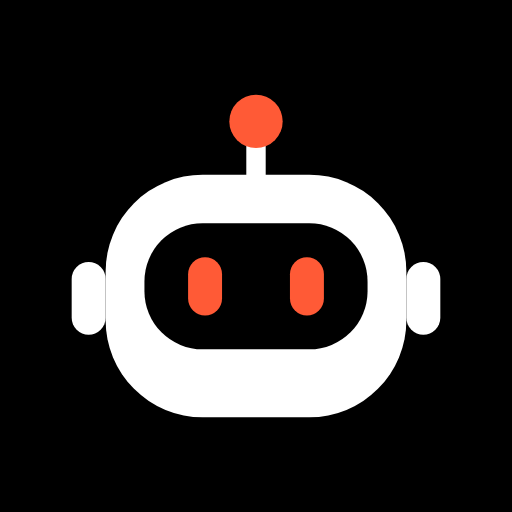
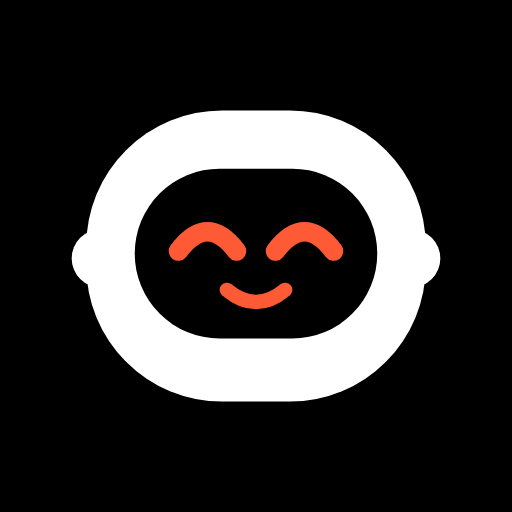
Make Buddy friendlier: no antenna, smiling eyes
Rounder head with round ears, a visor with smiling orange eyes and a
smile. Winks with one open eye on a pick and grins on a match. Updated
icons, splash and site mark.

Claude-Session: https://claude.ai/code/session_01NYVGF7UNYNvKVPr8WVfc16

Changed region(s): [[0.125, 0.1875, 0.875, 0.6875], [0.2188, 0.6875, 0.7812, 0.8438], [0.2812, 0.5625, 0.7188, 0.6875]]

diff --git a/app/lib/widgets/dots.dart b/app/lib/widgets/dots.dart
@@ -105,10 +105,10 @@ DotField portraitField(String seed, {double headY = 0.42, double scale = 1}) {
 enum BuddyMood { normal, wink, happy }
 
 /// Width / height of Buddy.
-const markAspect = 152 / 133;
+const markAspect = 152 / 120;
 
-/// Buddy, the Sidekick mascot: a round robot head with a visor, orange eyes and an antenna.
-/// [size] is its height. It winks when it has spotted someone and smiles on a match.
+/// Buddy, the Sidekick mascot: a round robot head with a visor and smiling orange eyes.
+/// [size] is its height. It winks when it has spotted someone and beams on a match.
 class SidekickMark extends StatelessWidget {
   const SidekickMark({
     super.key,
@@ -139,8 +139,8 @@ class BuddyPainter extends CustomPainter {
   final Color color, visor, eyes;
   final BuddyMood mood;
 
-  // Drawn on a 200 x 200 artboard; Buddy spans x 24..176, y 27..160.
-  static const art = Rect.fromLTRB(24, 27, 176, 160);
+  // Drawn on a 200 x 200 artboard; Buddy spans x 24..176, y 52..172.
+  static const art = Rect.fromLTRB(24, 52, 176, 172);
 
   @override
   void paint(Canvas canvas, Size s) {
@@ -148,42 +148,45 @@ class BuddyPainter extends CustomPainter {
     canvas.scale(s.width / art.width, s.height / art.height);
     canvas.translate(-art.left, -art.top);
     final body = Paint()..color = color;
-    RRect r(double x, double y, double w, double h, double rad) =>
-        RRect.fromRectAndRadius(Rect.fromLTWH(x, y, w, h), Radius.circular(rad));
-    // Antenna.
-    canvas.drawLine(
-      const Offset(100, 44),
-      const Offset(100, 62),
-      Paint()
-        ..color = color
-        ..strokeWidth = 8
-        ..strokeCap = StrokeCap.round,
-    );
-    canvas.drawCircle(const Offset(100, 38), 11, Paint()..color = eyes);
     // Ears, head, visor.
-    canvas.drawRRect(r(24, 96, 14, 30, 7), body);
-    canvas.drawRRect(r(162, 96, 14, 30, 7), body);
-    canvas.drawRRect(r(38, 60, 124, 100, 40), body);
-    canvas.drawRRect(r(54, 80, 92, 52, 24), Paint()..color = visor);
-    // Eyes.
-    final eye = Paint()..color = eyes;
-    final arc = Paint()
+    canvas.drawCircle(const Offset(36, 113), 12, body);
+    canvas.drawCircle(const Offset(164, 113), 12, body);
+    canvas.drawRRect(RRect.fromRectAndRadius(const Rect.fromLTWH(30, 52, 140, 120), const Radius.circular(56)), body);
+    canvas.drawRRect(
+      RRect.fromRectAndRadius(const Rect.fromLTWH(50, 76, 100, 70), const Radius.circular(35)),
+      Paint()..color = visor,
+    );
+    // Smiling eyes and mouth.
+    Paint stroke(double w) => Paint()
       ..color = eyes
       ..style = PaintingStyle.stroke
-      ..strokeWidth = 7
+      ..strokeWidth = w
       ..strokeCap = StrokeCap.round;
-    Path smile(double x) => Path()
-      ..moveTo(x - 9, 110)
-      ..quadraticBezierTo(x, 98, x + 9, 110);
-    if (mood == BuddyMood.happy) {
-      canvas.drawPath(smile(79), arc);
+    Path arc(double x) => Path()
+      ..moveTo(x - 12, 110)
+      ..quadraticBezierTo(x, 94, x + 12, 110);
+    if (mood == BuddyMood.wink) {
+      canvas.drawCircle(const Offset(80, 104), 9, Paint()..color = eyes);
     } else {
-      canvas.drawRRect(r(72, 94, 14, 24, 7), eye);
+      canvas.drawPath(arc(80), stroke(8));
     }
-    if (mood == BuddyMood.normal) {
-      canvas.drawRRect(r(114, 94, 14, 24, 7), eye);
+    canvas.drawPath(arc(120), stroke(8));
+    if (mood == BuddyMood.happy) {
+      // A wide open grin.
+      canvas.drawPath(
+        Path()
+          ..moveTo(86, 124)
+          ..quadraticBezierTo(100, 144, 114, 124)
+          ..close(),
+        Paint()..color = eyes,
+      );
     } else {
-      canvas.drawPath(smile(121), arc);
+      canvas.drawPath(
+        Path()
+          ..moveTo(88, 126)
+          ..quadraticBezierTo(100, 136, 112, 126),
+        stroke(6),
+      );
     }
     canvas.restore();
   }

diff --git a/site/e/index.html b/site/e/index.html
@@ -14,7 +14,7 @@
   <!-- With the app installed, Android opens event links straight in the app (App Links).
        This page is for everyone else. -->
   <main>
-    <svg class="mark" viewBox="24 27 152 133" aria-hidden="true"><line x1="100" y1="44" x2="100" y2="62" stroke="#fff" stroke-width="8" stroke-linecap="round"/><circle cx="100" cy="38" r="11" fill="#ff5a36"/><rect x="24" y="96" width="14" height="30" rx="7" fill="#fff"/><rect x="162" y="96" width="14" height="30" rx="7" fill="#fff"/><rect x="38" y="60" width="124" height="100" rx="40" fill="#fff"/><rect x="54" y="80" width="92" height="52" rx="24" fill="#000"/><rect x="72" y="94" width="14" height="24" rx="7" fill="#ff5a36"/><rect x="114" y="94" width="14" height="24" rx="7" fill="#ff5a36"/></svg>
+    <svg class="mark" viewBox="24 52 152 120" aria-hidden="true"><circle cx="36" cy="113" r="12" fill="#fff"/><circle cx="164" cy="113" r="12" fill="#fff"/><rect x="30" y="52" width="140" height="120" rx="56" fill="#fff"/><rect x="50" y="76" width="100" height="70" rx="35" fill="#000"/><path d="M68 110 Q80 94 92 110 M108 110 Q120 94 132 110" stroke="#ff5a36" stroke-width="8" fill="none" stroke-linecap="round"/><path d="M88 126 Q100 136 112 126" stroke="#ff5a36" stroke-width="6" fill="none" stroke-linecap="round"/></svg>
     <div class="eyebrow">You're invited</div>
     <h1>Send your <em>sidekick</em> in.</h1>
     <p>Someone shared an event on Sidekick. Check in with the app and your sidekick scouts the room for you while you stay in the talk.</p>

diff --git a/site/index.html b/site/index.html
@@ -13,7 +13,7 @@
 </head>
 <body>
   <main>
-    <svg class="mark" viewBox="24 27 152 133" aria-hidden="true"><line x1="100" y1="44" x2="100" y2="62" stroke="#fff" stroke-width="8" stroke-linecap="round"/><circle cx="100" cy="38" r="11" fill="#ff5a36"/><rect x="24" y="96" width="14" height="30" rx="7" fill="#fff"/><rect x="162" y="96" width="14" height="30" rx="7" fill="#fff"/><rect x="38" y="60" width="124" height="100" rx="40" fill="#fff"/><rect x="54" y="80" width="92" height="52" rx="24" fill="#000"/><rect x="72" y="94" width="14" height="24" rx="7" fill="#ff5a36"/><rect x="114" y="94" width="14" height="24" rx="7" fill="#ff5a36"/></svg>
+    <svg class="mark" viewBox="24 52 152 120" aria-hidden="true"><circle cx="36" cy="113" r="12" fill="#fff"/><circle cx="164" cy="113" r="12" fill="#fff"/><rect x="30" y="52" width="140" height="120" rx="56" fill="#fff"/><rect x="50" y="76" width="100" height="70" rx="35" fill="#000"/><path d="M68 110 Q80 94 92 110 M108 110 Q120 94 132 110" stroke="#ff5a36" stroke-width="8" fill="none" stroke-linecap="round"/><path d="M88 126 Q100 136 112 126" stroke="#ff5a36" stroke-width="6" fill="none" stroke-linecap="round"/></svg>
     <div class="eyebrow">Sidekick</div>
     <h1>Stay in the talk.<br /><em>Your sidekick works the room.</em></h1>
     <p>Check in to an event or a place. Your sidekick scouts everyone there and tells you who is worth meeting. Connect or pass. When you both connect, you swap contacts.</p>
